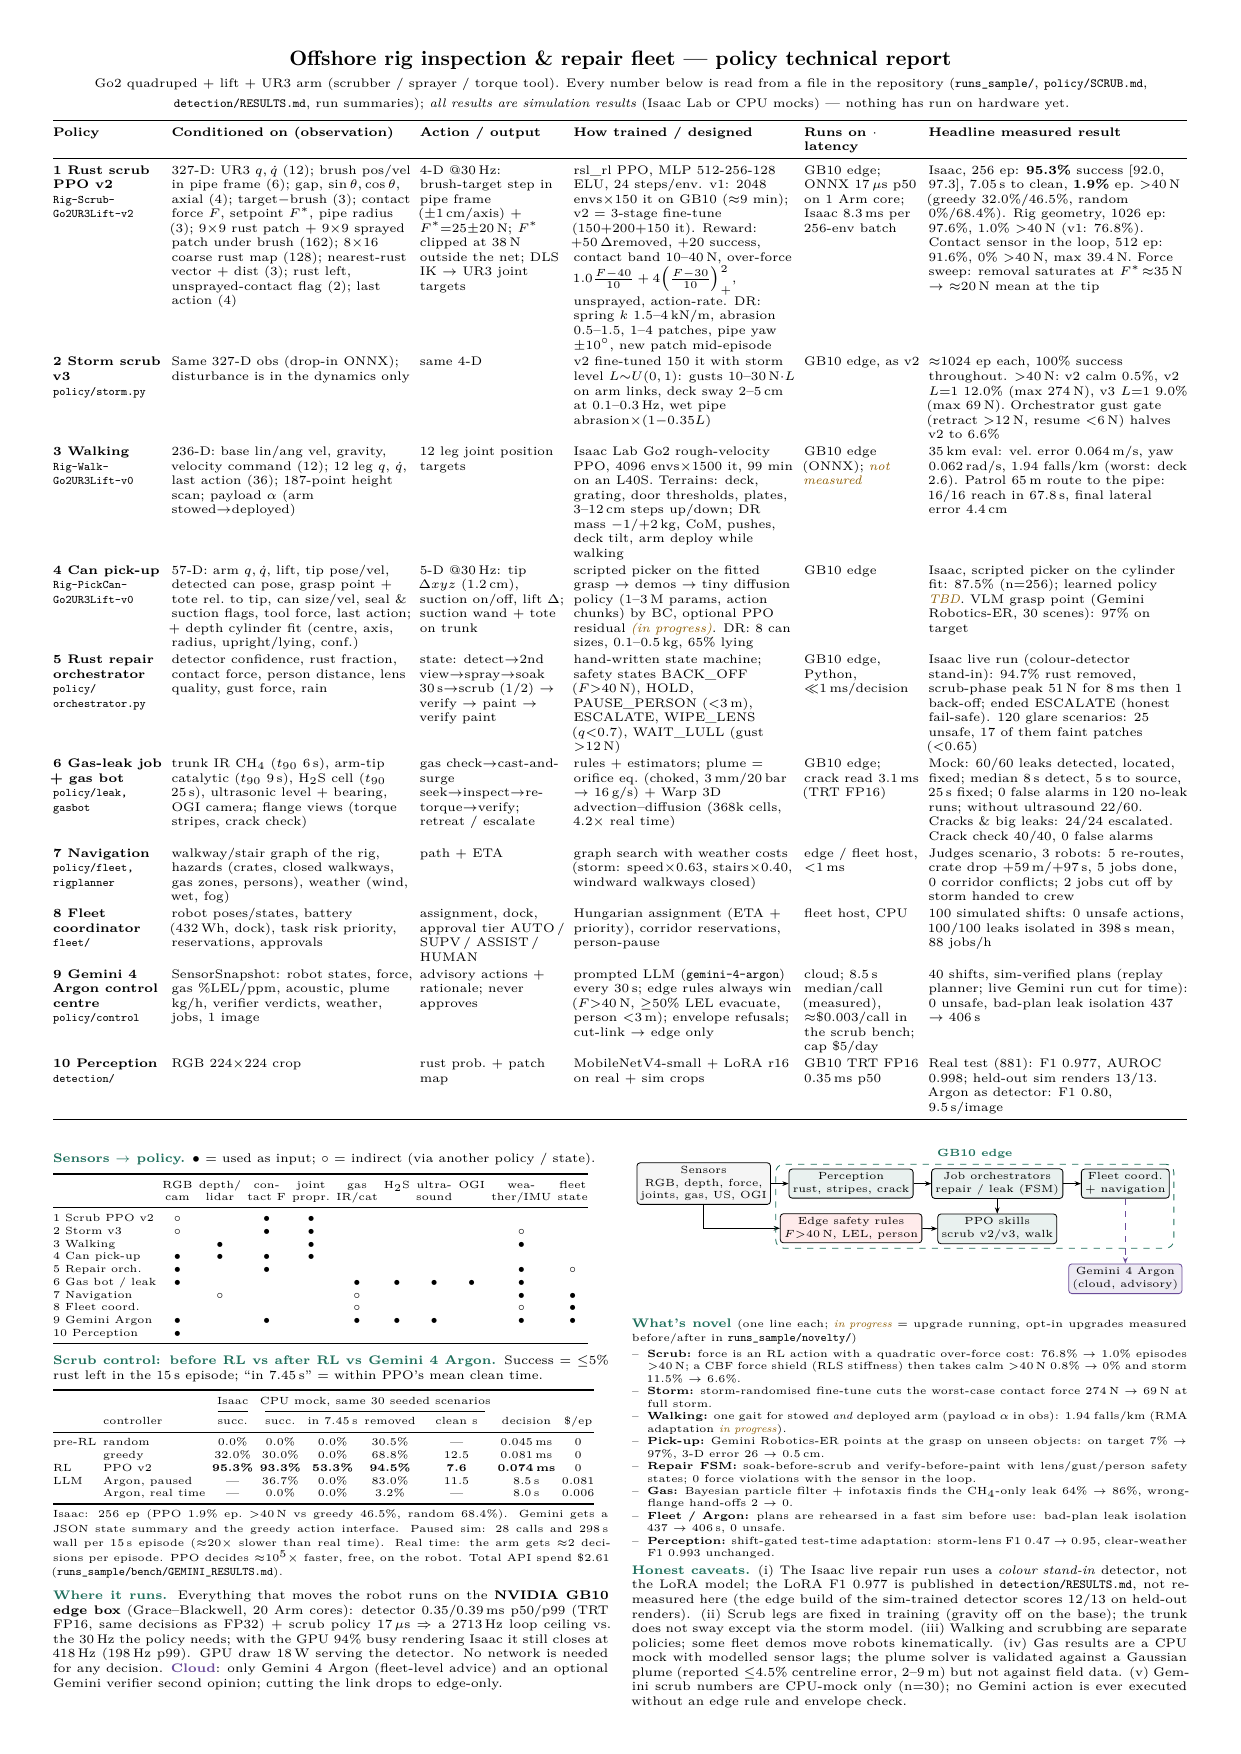
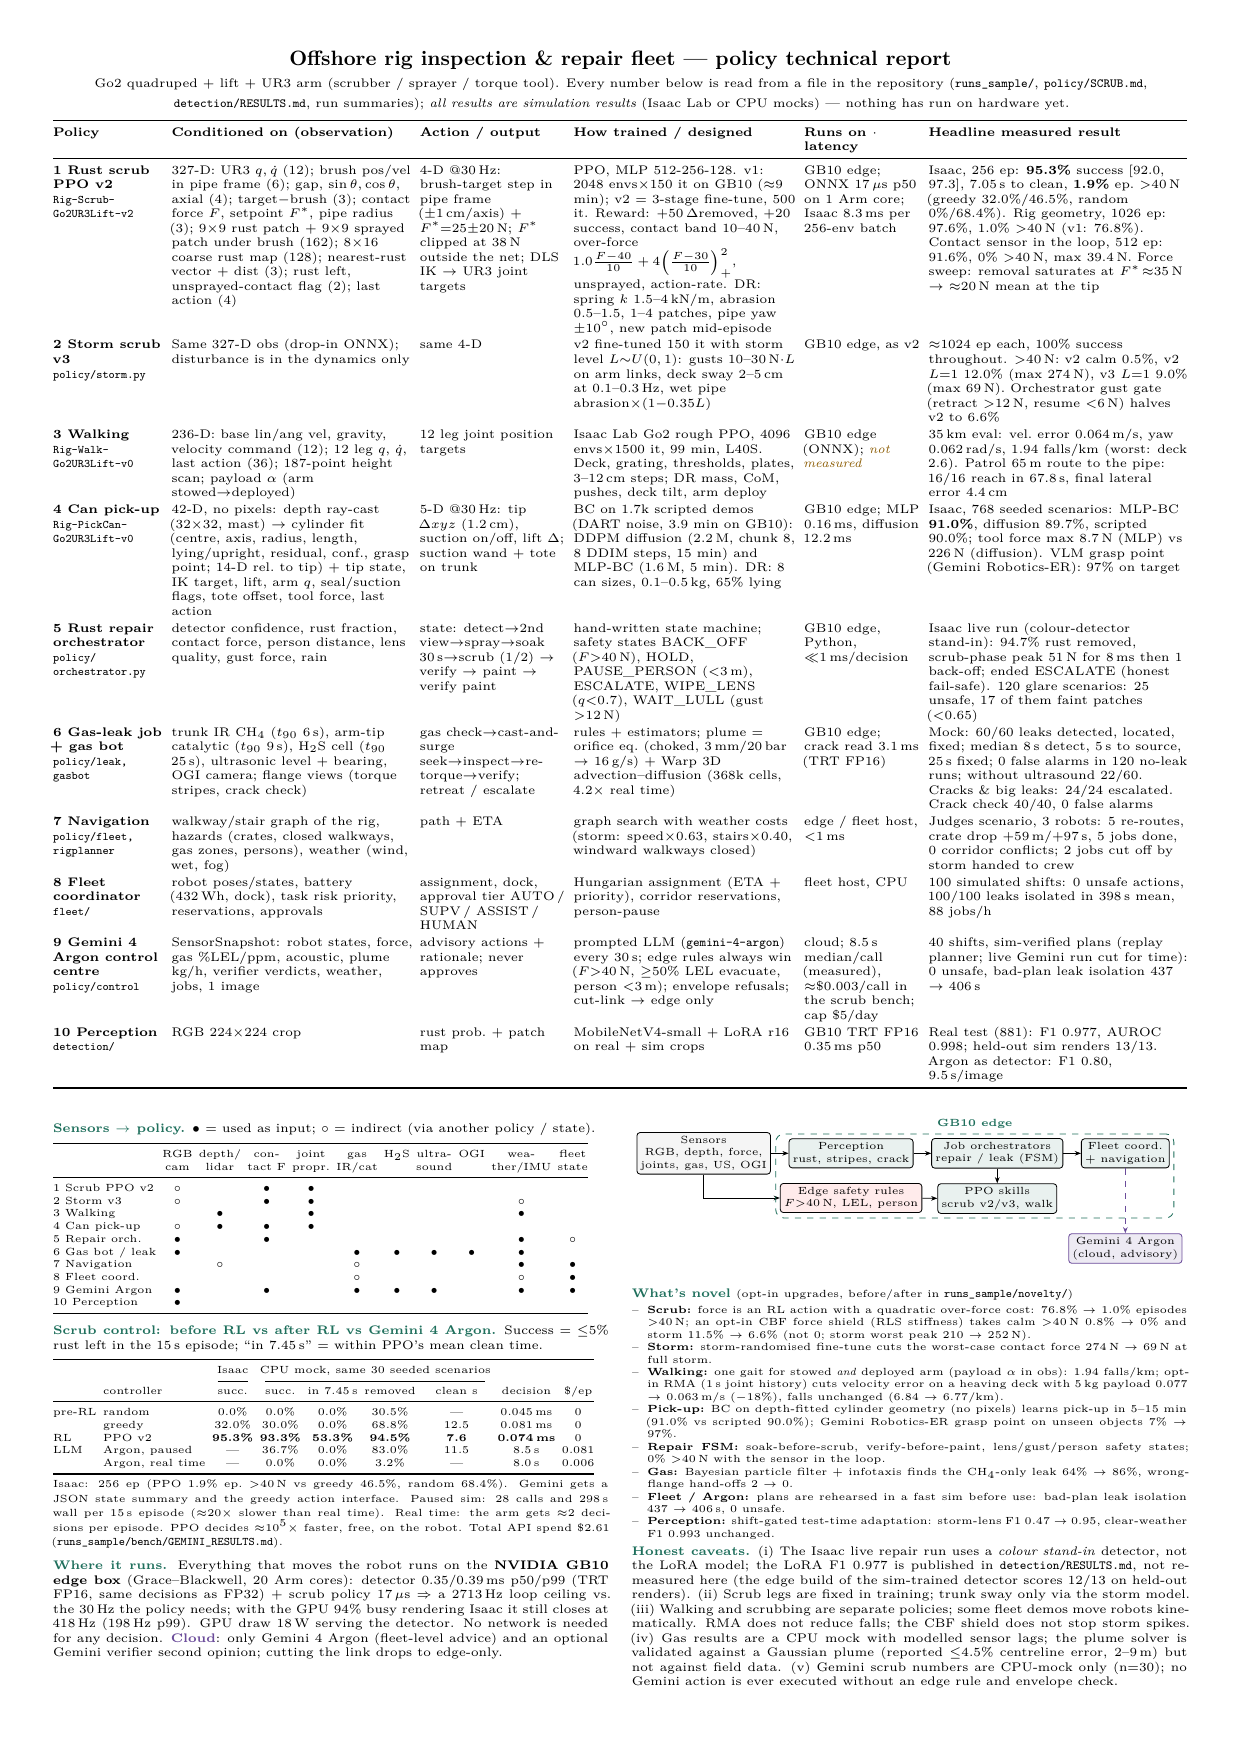
Policy report v4: CBF shield and walking RMA one-liners with honest limits, learned can pick-up (MLP-BC 91.0%, diffusion 89.7%, scripted 90.0%, n=768)

Changed region(s): [[0.0306, 0.0924, 0.9799, 0.9852], [0.0306, 0.1847, 0.3674, 0.2155]]

diff --git a/docs/policy_report/policy_report.tex b/docs/policy_report/policy_report.tex
@@ -44,8 +44,8 @@ contact force $F$, setpoint $F^*$, pipe radius (3); $9{\times}9$ rust patch + $9
 $8{\times}16$ coarse rust map (128); nearest-rust vector + dist (3); rust left, unsprayed-contact flag (2); last action (4) &
 4-D @30\,Hz: brush-target step in pipe frame ($\pm$1\,cm/axis) + $F^*{=}25{\pm}20$\,N; $F^*$ clipped at 38\,N outside the
 net; DLS IK $\to$ UR3 joint targets &
-rsl\_rl PPO, MLP 512-256-128 ELU, 24 steps/env. v1: 2048 envs$\times$150 it on GB10 ($\approx$9 min); v2 = 3-stage
-fine-tune (150+200+150 it). Reward: $+50\,\Delta$removed, $+20$ success, contact band 10--40\,N, over-force
+PPO, MLP 512-256-128. v1: 2048 envs$\times$150 it on GB10 ($\approx$9 min); v2 = 3-stage
+fine-tune, 500 it. Reward: $+50\,\Delta$removed, $+20$ success, contact band 10--40\,N, over-force
 $1.0\frac{F-40}{10}+4\big(\frac{F-30}{10}\big)^2_{+}$, unsprayed, action-rate. DR: spring $k$ 1.5--4\,kN/m, abrasion
 0.5--1.5, 1--4 patches, pipe yaw $\pm$10$^\circ$, new patch mid-episode &
 GB10 edge; ONNX 17\,$\mu$s p50 on 1 Arm core; Isaac 8.3\,ms per 256-env batch &
@@ -67,21 +67,22 @@ $\approx$1024 ep each, 100\% success throughout. $>$40\,N: v2 calm 0.5\%, v2 $L{
 236-D: base lin/ang vel, gravity, velocity command (12); 12 leg $q$, $\dot q$, last action (36); 187-point height scan;
 payload $\alpha$ (arm stowed$\to$deployed) &
 12 leg joint position targets &
-Isaac Lab Go2 rough-velocity PPO, 4096 envs$\times$1500 it, 99 min on an L40S. Terrains: deck, grating, door thresholds,
-plates, 3--12\,cm steps up/down; DR mass $-1/{+}2$\,kg, CoM, pushes, deck tilt, arm deploy while walking &
+Isaac Lab Go2 rough PPO, 4096 envs$\times$1500 it, 99 min, L40S. Deck, grating, thresholds,
+plates, 3--12\,cm steps; DR mass, CoM, pushes, deck tilt, arm deploy &
 GB10 edge (ONNX); \nm &
 35\,km eval: vel.\ error 0.064\,m/s, yaw 0.062\,rad/s, 1.94 falls/km (worst: deck 2.6). Patrol 65\,m route to the pipe:
 16/16 reach in 67.8\,s, final lateral error 4.4\,cm \\
 \addlinespace[1pt]
 \textbf{4 Can pick-up} \newline \fn{Rig-PickCan-}\newline\fn{Go2UR3Lift-v0} &
-57-D: arm $q,\dot q$, lift, tip pose/vel, detected can pose, grasp point + tote rel.\ to tip, can size/vel, seal \&
-suction flags, tool force, last action; + depth cylinder fit (centre, axis, radius, upright/lying, conf.) &
+42-D, no pixels: depth ray-cast ($32{\times}32$, mast) $\to$ cylinder fit (centre, axis, radius, length,
+lying/upright, residual, conf., grasp point; 14-D rel.\ to tip) + tip state, IK target, lift, arm $q$, seal/suction
+flags, tote offset, tool force, last action &
 5-D @30\,Hz: tip $\Delta xyz$ (1.2\,cm), suction on/off, lift $\Delta$; suction wand + tote on trunk &
-scripted picker on the fitted grasp $\to$ demos $\to$ tiny diffusion policy (1--3\,M params, action chunks) by BC,
-optional PPO residual \textcolor{note}{\textit{(in progress)}}. DR: 8 can sizes, 0.1--0.5\,kg, 65\% lying &
-GB10 edge &
-Isaac, scripted picker on the cylinder fit: 87.5\% (n=256); learned policy \textcolor{note}{\textit{TBD}}. VLM grasp
-point (Gemini Robotics-ER, 30 scenes): 97\% on target \\
+BC on 1.7k scripted demos (DART noise, 3.9 min on GB10): DDPM diffusion (2.2\,M, chunk 8, 8 DDIM steps, 15 min)
+and MLP-BC (1.6\,M, 5 min). DR: 8 can sizes, 0.1--0.5\,kg, 65\% lying &
+GB10 edge; MLP 0.16\,ms, diffusion 12.2\,ms &
+Isaac, 768 seeded scenarios: MLP-BC \textbf{91.0\%}, diffusion 89.7\%, scripted 90.0\%; tool force max 8.7\,N (MLP) vs
+226\,N (diffusion). VLM grasp point (Gemini Robotics-ER): 97\% on target \\
 \addlinespace[1pt]
 \textbf{5 Rust repair orchestrator} \newline \fn{policy/}\newline\fn{orchestrator.py} &
 detector confidence, rust fraction, contact force, person distance, lens quality, gust force, rain &
@@ -147,7 +148,7 @@ Real test (881): F1 0.977, AUROC 0.998; held-out sim renders 13/13. Argon as det
 1 Scrub PPO v2     & $\circ$ & & $\bullet$ & $\bullet$ & & & & & & \\
 2 Storm v3         & $\circ$ & & $\bullet$ & $\bullet$ & & & & & $\circ$ & \\
 3 Walking          & & $\bullet$ & & $\bullet$ & & & & & $\bullet$ & \\
-4 Can pick-up      & $\bullet$ & $\bullet$ & $\bullet$ & $\bullet$ & & & & & & \\
+4 Can pick-up      & $\circ$ & $\bullet$ & $\bullet$ & $\bullet$ & & & & & & \\
 5 Repair orch.     & $\bullet$ & & $\bullet$ & & & & & & $\bullet$ & $\circ$ \\
 6 Gas bot / leak   & $\bullet$ & & & & $\bullet$ & $\bullet$ & $\bullet$ & $\bullet$ & $\bullet$ & \\
 7 Navigation       & & $\circ$ & & & $\circ$ & & & & $\bullet$ & $\bullet$ \\
@@ -206,13 +207,13 @@ opinion; cutting the link drops to edge-only.
 \end{tikzpicture}
 \end{center}
 
-\hd{What's novel} {\scriptsize(one line each; \textcolor{note}{\textit{in progress}} = upgrade running, opt-in upgrades measured before/after in \fn{runs\_sample/novelty/})}\par
+\hd{What's novel} {\scriptsize(opt-in upgrades, before/after in \fn{runs\_sample/novelty/})}\par
 {\scriptsize\begin{itemize}[label=--]
-\item \textbf{Scrub:} force is an RL action with a quadratic over-force cost: 76.8\% $\to$ 1.0\% episodes $>$40\,N; a CBF force shield (RLS stiffness) then takes calm $>$40\,N 0.8\% $\to$ 0\% and storm 11.5\% $\to$ 6.6\%.
+\item \textbf{Scrub:} force is an RL action with a quadratic over-force cost: 76.8\% $\to$ 1.0\% episodes $>$40\,N; an opt-in CBF force shield (RLS stiffness) takes calm $>$40\,N 0.8\% $\to$ 0\% and storm 11.5\% $\to$ 6.6\% (not 0; storm worst peak 210 $\to$ 252\,N).
 \item \textbf{Storm:} storm-randomised fine-tune cuts the worst-case contact force 274\,N $\to$ 69\,N at full storm.
-\item \textbf{Walking:} one gait for stowed \emph{and} deployed arm (payload $\alpha$ in obs): 1.94 falls/km (RMA adaptation \textcolor{note}{\textit{in progress}}).
-\item \textbf{Pick-up:} Gemini Robotics-ER points at the grasp on unseen objects: on target 7\% $\to$ 97\%, 3-D error 26 $\to$ 0.5\,cm.
-\item \textbf{Repair FSM:} soak-before-scrub and verify-before-paint with lens/gust/person safety states; 0 force violations with the sensor in the loop.
+\item \textbf{Walking:} one gait for stowed \emph{and} deployed arm (payload $\alpha$ in obs): 1.94 falls/km; opt-in RMA (1\,s joint history) cuts velocity error on a heaving deck with 5\,kg payload 0.077 $\to$ 0.063\,m/s ($-$18\%), falls unchanged (6.84 $\to$ 6.77/km).
+\item \textbf{Pick-up:} BC on depth-fitted cylinder geometry (no pixels) learns pick-up in 5--15 min (91.0\% vs scripted 90.0\%); Gemini Robotics-ER grasp point on unseen objects 7\% $\to$ 97\%.
+\item \textbf{Repair FSM:} soak-before-scrub, verify-before-paint, lens/gust/person safety states; 0\% $>$40\,N with the sensor in the loop.
 \item \textbf{Gas:} Bayesian particle filter + infotaxis finds the CH$_4$-only leak 64\% $\to$ 86\%, wrong-flange hand-offs 2 $\to$ 0.
 \item \textbf{Fleet / Argon:} plans are rehearsed in a fast sim before use: bad-plan leak isolation 437 $\to$ 406\,s, 0 unsafe.
 \item \textbf{Perception:} shift-gated test-time adaptation: storm-lens F1 0.47 $\to$ 0.95, clear-weather F1 0.993 unchanged.
@@ -220,9 +221,8 @@ opinion; cutting the link drops to edge-only.
 
 \hd{Honest caveats.} (i) The Isaac live repair run uses a \emph{colour stand-in} detector, not the LoRA model; the LoRA
 F1 0.977 is published in \texttt{detection/RESULTS.md}, not re-measured here (the edge build of the sim-trained detector
-scores 12/13 on held-out renders). (ii) Scrub legs are fixed in training (gravity off on the base); the trunk does not
-sway except via the storm model. (iii) Walking and scrubbing are separate policies; some fleet demos move robots
-kinematically. (iv) Gas results are a CPU mock with modelled sensor lags; the plume solver is validated against a
+scores 12/13 on held-out renders). (ii) Scrub legs are fixed in training; trunk sway only via the storm model. (iii) Walking and scrubbing are separate policies; some fleet demos move robots
+kinematically. RMA does not reduce falls; the CBF shield does not stop storm spikes. (iv) Gas results are a CPU mock with modelled sensor lags; the plume solver is validated against a
 Gaussian plume (reported $\leq$4.5\% centreline error, 2--9\,m) but not against field data. (v) Gemini scrub numbers are
 CPU-mock only (n=30); no Gemini action is ever executed without an edge rule and envelope check.
 \end{multicols}
